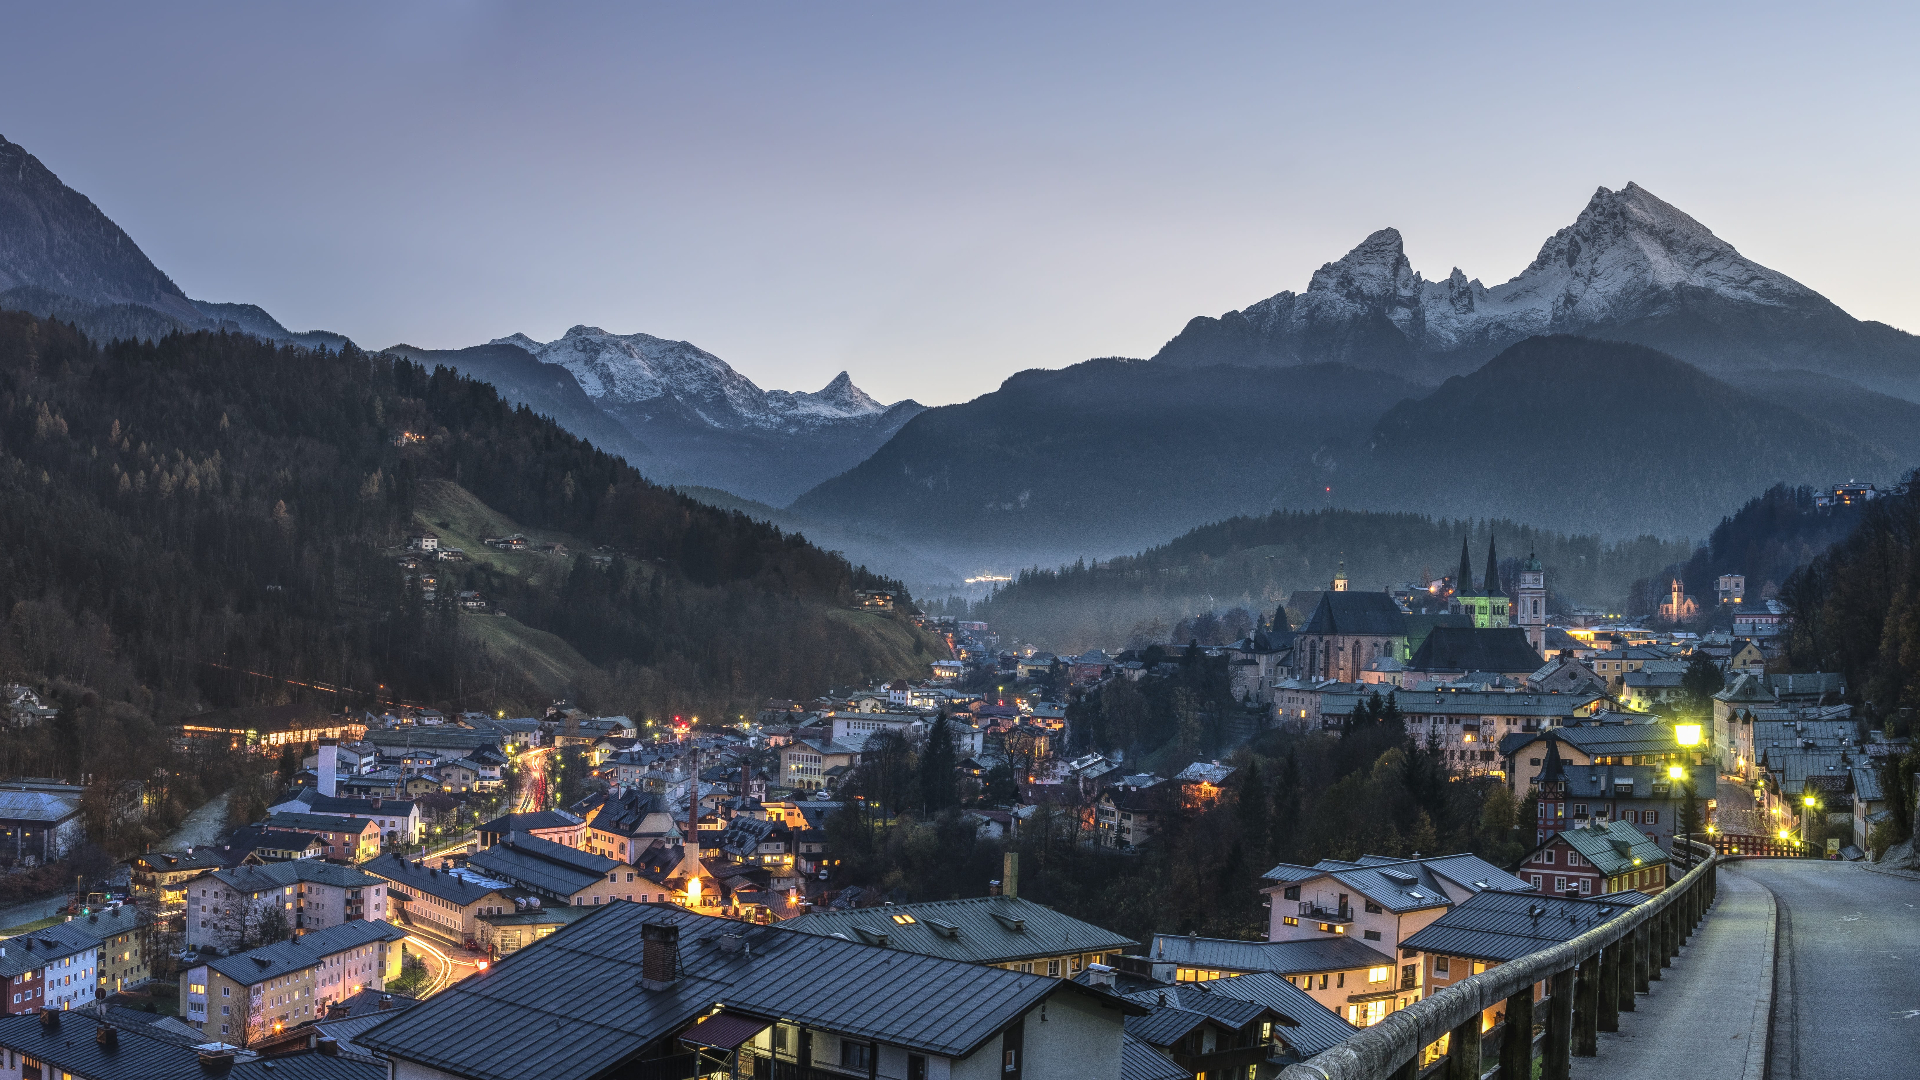
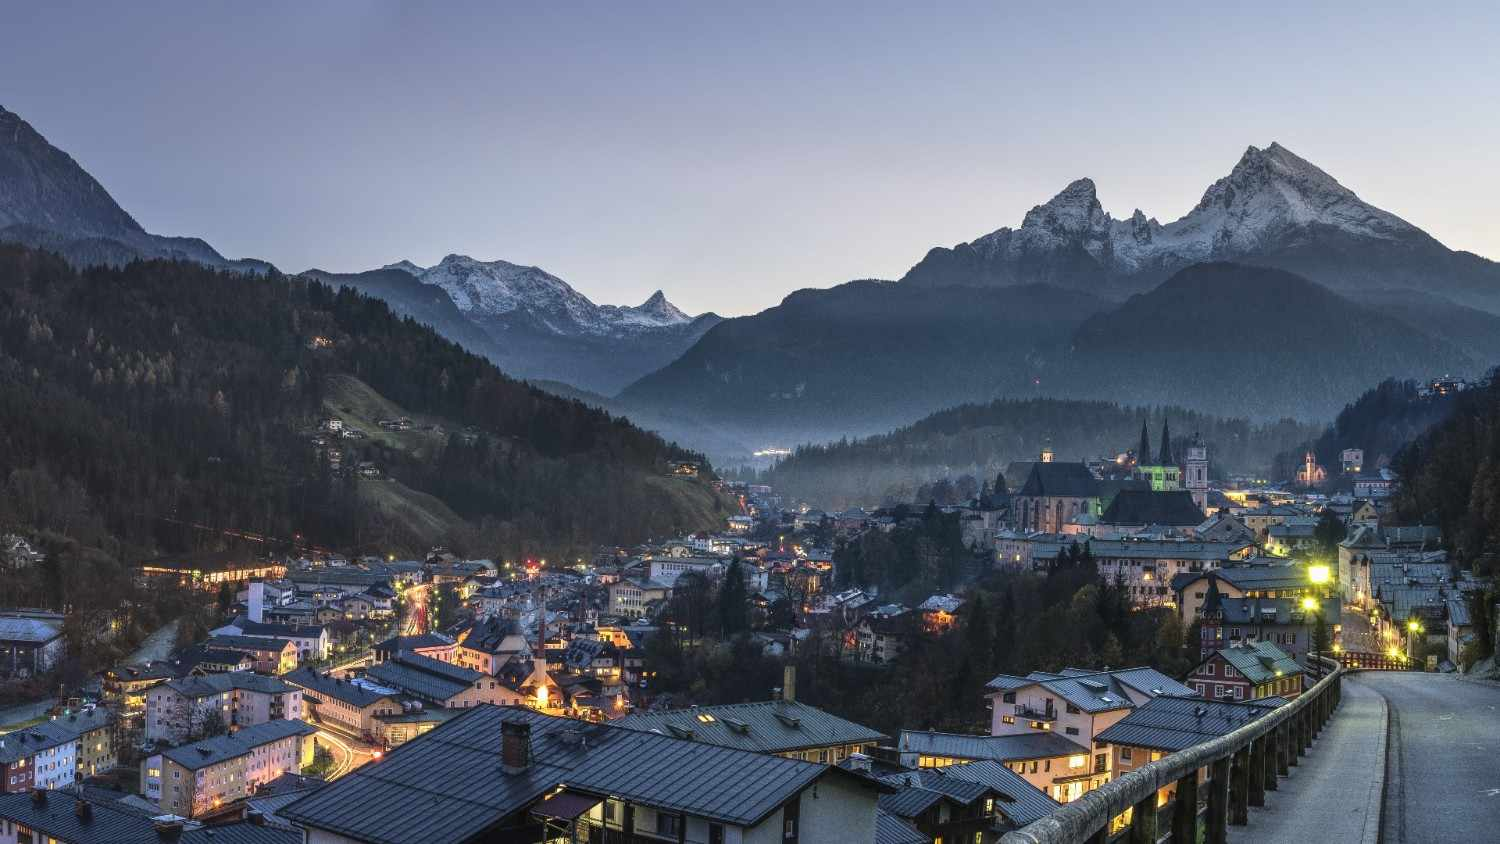
start optimizing the website change the bg size

diff --git a/index.html b/index.html
@@ -51,7 +51,7 @@
   <nav id="main-nav">
     <div class="row">
 	<div class="logo">
-          <a href="index.html"><img src="images/logo.jpeg" alt="logo"></a>
+          <a href="index.html"><img src="images/logo2.png" alt="logo"></a>
         </div>
       <div class="container">
         <div class="responsive"><i data-icon="m" class="ion-navicon-round"></i></div>
@@ -64,7 +64,7 @@
 		<!--  <li><a href="#portfolio" class="smoothScroll">Projects</a></li> -->
 		   <li><a href="#portfolio" class="smoothScroll">Work Gallery</a></li>
           <li><a href="#contact" class="smoothScroll">More</a></li>
-		 <li><a id="buttonresume1" class="smoothScroll" onclick="downloadResume()">My Resume</a></li>
+		<!-- <li><a id="buttonresume1" class="smoothScroll" onclick="downloadResume()">My Resume</a></li>-->
         </ul>
  
       

diff --git a/css/style.css b/css/style.css
@@ -247,8 +247,8 @@ nav ul li a {
 }
 
 .logo img {
-  width: 150px;
-  height: 50px;
+  width: 100px;
+  height: 40px;
 }
 
 .responsive {
@@ -368,7 +368,7 @@ margin: 10;
 }
 
 /*-----------------------------------------------------------------------------------*/
-/*  Aout-us
+/*  About-us
 /*-----------------------------------------------------------------------------------*/
 
 #about {
